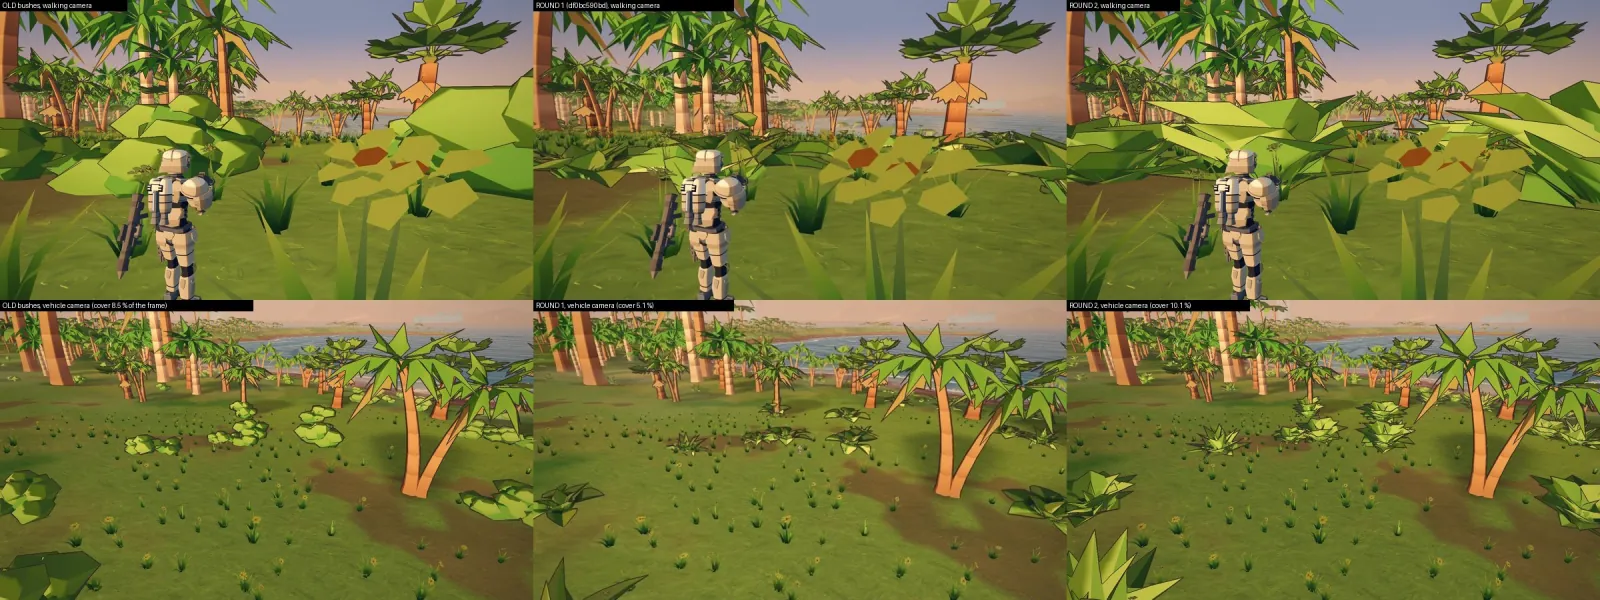
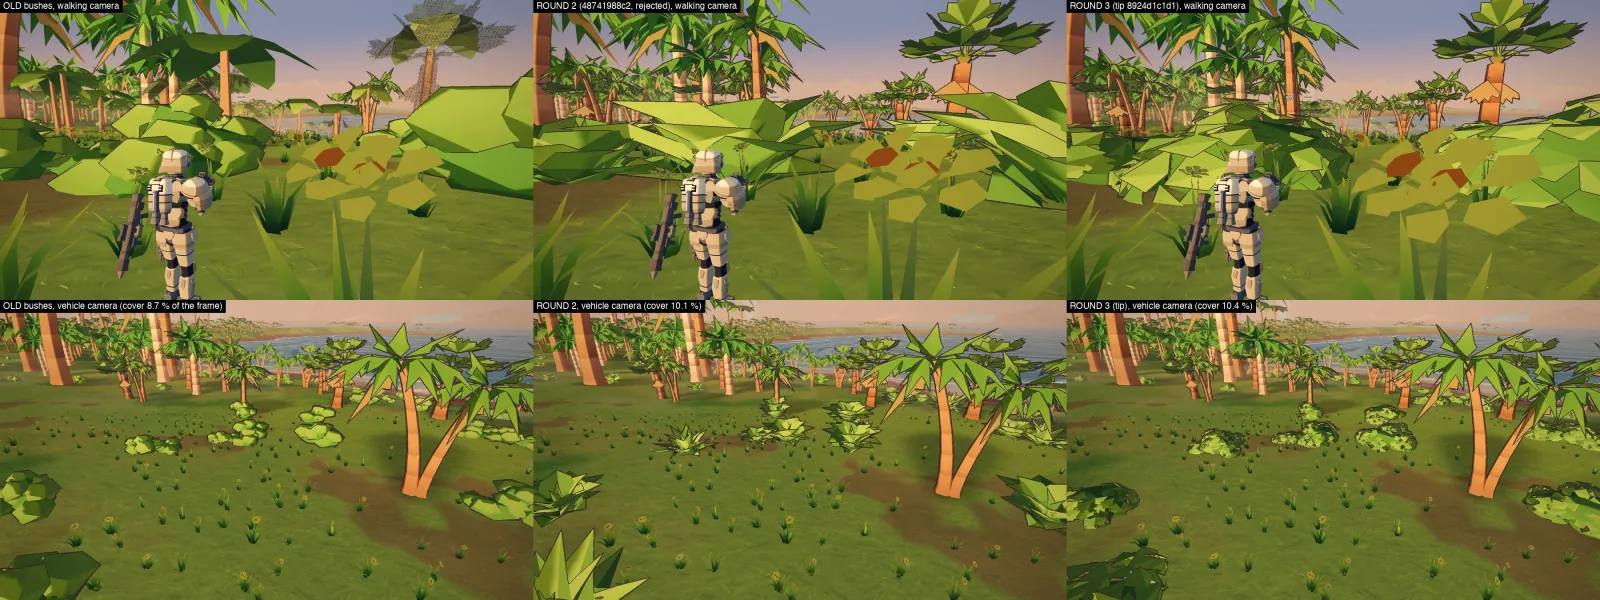
review page v32: Steel Tide: to review

diff --git a/d/steel-tide-clips-bb00109a/index.html b/d/steel-tide-clips-bb00109a/index.html
@@ -4,14 +4,13 @@
 <style>body{margin:0;background:#0d1117;color:#e6edf3;font:16px/1.5 -apple-system,system-ui,sans-serif}main{max-width:900px;margin:0 auto;padding:16px}h1{font-size:20px;margin:8px 0 4px}h2{font-size:17px;margin:34px 0 6px}p{margin:4px 0 10px;color:#9da7b3;font-size:14px}video,img{width:100%;height:auto;background:#000;border-radius:6px;display:block;margin-top:6px}a.b{display:inline-block;margin:8px 8px 0 0;padding:10px 14px;border:1px solid #3d444d;border-radius:6px;color:#e6edf3;text-decoration:none;font-size:14px}.t{font-size:12px;font-weight:400;color:#0d1117;background:#9da7b3;border-radius:10px;padding:2px 8px;margin-left:6px;vertical-align:middle}p.d{color:#7cb7ff;font-size:13px;margin:0 0 6px}nav small{color:#9da7b3;margin-left:6px}p b{color:#e6edf3}nav a{display:block;padding:7px 0;color:#7cb7ff;text-decoration:none;font-size:14px;border-bottom:1px solid #21262d}</style></head>
 <body><main>
 <h1>Steel Tide: to review</h1>
-<p>Version 31, 11-16 10:52 PM. New: the island bushes, round 2 (in review, not live). New: Ocean Titan torpedoes you can see (in review) and the Reactor Beam&#x27;s white core into the impact flash (reviewed, ships next). Live in M136: the small hit X, the 6.5 s Reactor Beam, the sonar wave, the Wave Runner / ship fix. The scripted trailer is stopped. Not on this page: ground fog (third r Newest first. Total 20.2 MB.</p>
-<nav><a href="#island-bushes">Island bushes: leafy clumps instead of smooth lumps (not live yet) <small>11-16 10:50 PM</small></a><a href="#mech-beam-contact">Mech beam: where it hits a surface (now live) <small>11-16 7:20 PM</small></a><a href="#ocean-titan-drones">Ocean Titan: the new seeker drones <small>11-16 6:55 PM</small></a><a href="#titan-torpedoes">Ocean Titan: torpedoes you can see, warm lights (not live yet) <small>11-16 6:06 PM</small></a><a href="#beam-core-join">Reactor Beam: white core runs into the impact flash (not live yet) <small>11-16 5:32 PM</small></a><a href="#leviathan-finisher">Leviathan finisher with the new beam (now live) <small>11-16 5:14 PM</small></a><a href="#hit-x-now">Hit X on the reticle: before and after the fix (now live) <small>11-16 4:53 PM</small></a><a href="#sonar-sea-pulse">Ocean Titan sonar ping: a wave in the sea (now live) <small>11-16 4:51 PM</small></a><a href="#range-mech-weight-jump-land">Test range: mech boost, hop and slam landing <small>11-16 12:56 PM</small></a><a href="#range-mech-weight-turn-stop">Test range: mech weight on a walk, hard turn, dash and stop <small>11-16 12:55 PM</small></a><a href="#range-mech-slam">Test range: the mech&#x27;s slam, filmed by the range&#x27;s own clip tool <small>11-16 9:55 AM</small></a><a href="#range-rifle-readout">Test range: assault rifle on 10 Brutes (range works; clip framing broken) <small>11-16 9:52 AM</small></a><a href="#ocean-titan">Ocean Titan in real combat <small>11-16 4:29 AM</small></a><a href="#widow-tree-elite">Tree elite (Widow) <small>11-16 4:04 AM</small></a><a href="#sniper-true-numbers">Lagoon Sniper: true damage numbers <small>11-15 11:52 PM</small></a><a href="#trees-rifle">Trees felled by gunfire: rifle and grenade <small>11-15 10:50 PM</small></a><a href="#coil-seven-pieces">The Coil breaks into seven pieces <small>11-15 10:27 PM</small></a><a href="#pilot-swim">The pilot swims <small>11-15 7:44 PM</small></a><a href="#extraction-outro">Extraction outro <small>11-15 6:53 PM</small></a></nav>
-<section id="island-bushes"><h2>Island bushes: leafy clumps instead of smooth lumps (not live yet) <span class="t">in review</span></h2>
-<p class="d">Updated 11-16 10:50 PM ET &middot; captured from lane build 48741988c2 (round 2)</p>
-<p><b>What changed:</b> The smooth rounded lumps are replaced by clumps of pointed leaves around a dark centre. Round 2 makes them as large as the old bushes; round 1 was too small.</p>
-<p><b>Where to look:</b> First still: left = old, middle = round 1, right = round 2; top row is the walking view, bottom row the vehicle view. The vehicle view is the good one; in the walking view the leaves are still large flat plates.</p>
-<img loading="lazy" src="island-bushes-1.webp" alt="Island bushes: leafy clumps instead of smooth lumps (not live yet)">
-<img loading="lazy" src="island-bushes-2.webp" alt="Island bushes: leafy clumps instead of smooth lumps (not live yet)"></section>
+<p>Version 32, 11-16 11:47 PM. Island bushes: round 3 failed too; the old rounded bushes stay live. New: Ocean Titan torpedoes you can see (in review) and the Reactor Beam&#x27;s white core into the impact flash (reviewed, ships next). Live in M136: the small hit X, the 6.5 s Reactor Beam, the sonar wave, the Wave Runner / ship fix. The scripted trailer is stopped. Not on this page: ground fog (third r Newest first. Total 20.0 MB.</p>
+<nav><a href="#island-bushes">Island bushes: three tries, none better than the old ones (not live) <small>11-16 11:50 PM</small></a><a href="#mech-beam-contact">Mech beam: where it hits a surface (now live) <small>11-16 7:20 PM</small></a><a href="#ocean-titan-drones">Ocean Titan: the new seeker drones <small>11-16 6:55 PM</small></a><a href="#titan-torpedoes">Ocean Titan: torpedoes you can see, warm lights (not live yet) <small>11-16 6:06 PM</small></a><a href="#beam-core-join">Reactor Beam: white core runs into the impact flash (not live yet) <small>11-16 5:32 PM</small></a><a href="#leviathan-finisher">Leviathan finisher with the new beam (now live) <small>11-16 5:14 PM</small></a><a href="#hit-x-now">Hit X on the reticle: before and after the fix (now live) <small>11-16 4:53 PM</small></a><a href="#sonar-sea-pulse">Ocean Titan sonar ping: a wave in the sea (now live) <small>11-16 4:51 PM</small></a><a href="#range-mech-weight-jump-land">Test range: mech boost, hop and slam landing <small>11-16 12:56 PM</small></a><a href="#range-mech-weight-turn-stop">Test range: mech weight on a walk, hard turn, dash and stop <small>11-16 12:55 PM</small></a><a href="#range-mech-slam">Test range: the mech&#x27;s slam, filmed by the range&#x27;s own clip tool <small>11-16 9:55 AM</small></a><a href="#range-rifle-readout">Test range: assault rifle on 10 Brutes (range works; clip framing broken) <small>11-16 9:52 AM</small></a><a href="#ocean-titan">Ocean Titan in real combat <small>11-16 4:29 AM</small></a><a href="#widow-tree-elite">Tree elite (Widow) <small>11-16 4:04 AM</small></a><a href="#sniper-true-numbers">Lagoon Sniper: true damage numbers <small>11-15 11:52 PM</small></a><a href="#trees-rifle">Trees felled by gunfire: rifle and grenade <small>11-15 10:50 PM</small></a><a href="#coil-seven-pieces">The Coil breaks into seven pieces <small>11-15 10:27 PM</small></a><a href="#pilot-swim">The pilot swims <small>11-15 7:44 PM</small></a><a href="#extraction-outro">Extraction outro <small>11-15 6:53 PM</small></a></nav>
+<section id="island-bushes"><h2>Island bushes: three tries, none better than the old ones (not live) <span class="t">failed review</span></h2>
+<p class="d">Updated 11-16 11:50 PM ET &middot; captured from lane build 8924d1c1d1 (round 3)</p>
+<p><b>What changed:</b> Round 3 went back to a rounded mound with small leaves, as you asked. It reads as a pile of angular shards up close and as speckled clumps from the vehicle.</p>
+<p><b>Where to look:</b> One still: left = the old bushes (live), middle = round 2 (rejected), right = round 3. Top row walking view, bottom row vehicle view. The old ones on the left are the best of the three.</p>
+<img loading="lazy" src="island-bushes-1.webp" alt="Island bushes: three tries, none better than the old ones (not live)"></section>
 <section id="mech-beam-contact"><h2>Mech beam: where it hits a surface (now live) <span class="t">live M133</span></h2>
 <p class="d">Updated 11-16 7:20 PM ET &middot; captured from Viewer export of the build that is now live (M133)</p>
 <p><b>What changed:</b> The beam now fades into a ragged white-hot spark burst that covers the contact; the boxed end, the red blob and the stray lines along the beam are gone.</p>
